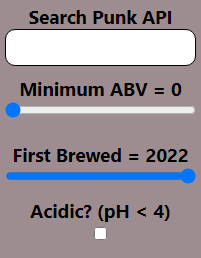
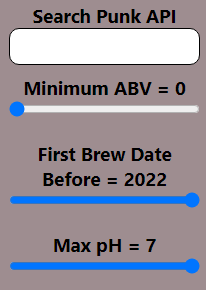
Changed Readme

diff --git a/README.md b/README.md
@@ -11,6 +11,7 @@ This project was developed in React and so mainly features:
 * ReactJS
 * JavaScript
 * SCSS styling Components
+* React Router
 
 <br />
 
@@ -22,6 +23,7 @@ Create a React Webapp to:
 * Filter and display beverages based on Alcohol Content
 * Filter and display beverages based on their first brew date.
 * Filter and display beverages based on their Acidity
+* Contain Routes and Routed Elements
 
 <br />
 
@@ -29,8 +31,9 @@ Current Features
 ================
 * Developed in React
 * Displays beverages in cards from the [Punk Api](https://punkapi.com/).
-* Filters and displays beverages based on name, alcohol content and first brew date.
-* Toggle Selectors for Acidic Drinks
+* Filters and displays beverages based on name, alcohol content and first brew date and maximum acidity.
+* Dyanamic pagination
+* About Section routed in
 
 Screenshots
 ===========
